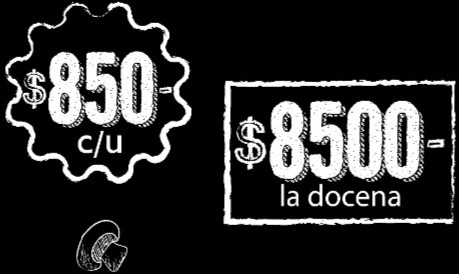
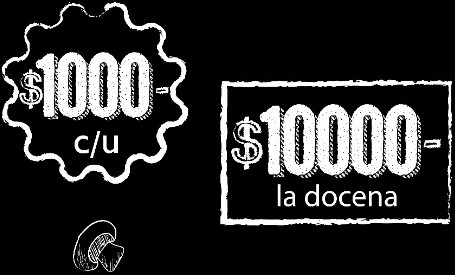
actualizacion diciembre 21

Changed region(s): [[0.4615, 0.292, 1.0, 0.8467], [0.0, 0.0, 0.4308, 0.6715], [0.1538, 0.7883, 0.2769, 0.9927]]

diff --git a/src/data/Pizzas-data.jsx b/src/data/Pizzas-data.jsx
@@ -1,33 +1,33 @@
 
 const productos = [
-    { id: 1, nombre: 'Mozzarella', descripcion: 'Salsa de tomate y mozzarella', precio: 4500 },
+    { id: 1, nombre: 'Mozzarella', descripcion: 'Salsa de tomate y mozzarella', precio: 5500 },
     { id: 2, nombre: 'Doble Mozza', descripcion: 'Salsa de tomate y doble mozzarella',precio: 
-    6200 },
-    { id: 3, nombre: 'Mozza c/Jamón', descripcion: 'Salsa de tomate, mozzarella y jamón',precio: 5900 },
-    { id: 4, nombre: 'Mozza c/anchoas', descripcion: 'Salsa de tomate, mozzarella y anchoas', precio: 6200 },
-    { id: 5, nombre: 'Jamón y Morrón', descripcion: 'Salsa de tomate, mozzarella , jamón y morrón',precio: 7300 },
-    { id: 6, nombre: 'Napolitana', descripcion: 'Salsa de tomate, mozzarella y tomate natural',precio: 5900 },
-    { id: 7, nombre: 'Napolitana y Jamón', descripcion: 'Salsa de tomate, mozzarella, tomate natural y jamón', precio: 7300 },
-    { id: 8, nombre: 'Fugaza c/Queso', descripcion: 'cebolla y mozzarella',precio: 5100 },
-    { id: 9, nombre: 'Fugaza rellena', descripcion: 'cebolla, mozzarella y jamón',precio: 8800 },
-    { id: 10, nombre: 'Salchicha', descripcion: 'Salsa de tomate, mozzarella y salchicha', precio: 6200 },
-    { id: 11, nombre: 'Palmitos', descripcion: 'Salsa de tomate, mozzarella y palmito',precio: 8500 },
-    { id: 12, nombre: 'Palmitos c/Jamón', descripcion: 'Salsa de tomate, mozzarella, palmito y jamón',precio: 9700 },
-    { id: 13, nombre: 'Champiñones', descripcion: 'Salsa de tomate, mozzarella y champiñon',precio: 8500 },
-    { id: 14, nombre: 'Hawaiana', descripcion: 'Salsa de tomate, mozzarella, jamón y ananá ',precio: 8500 },
-    { id: 15, nombre: 'Piamontesa', descripcion: 'Salsa de tomate, mozzarella, calabresa, champiñones y panceta',precio: 10500 },
-    { id: 16, nombre: 'Primavera', descripcion: 'Salsa de tomate, mozzarella, tomate, huevo y jamón',precio: 8500 },
-    { id: 17, nombre: 'Huevo', descripcion: 'Salsa de tomate, mozzarella y huevo',precio: 5900 },
-    { id: 18, nombre: 'Huevo c/Jamón', descripcion: 'Salsa de tomate, mozzarella, jamón y huevo',precio: 7300 },
-    { id: 19, nombre: 'Provolone', descripcion: 'Salsa de tomate, mozzarella y provolone',precio: 7300 },
-    { id: 20, nombre: 'Roquefort', descripcion: 'Salsa de tomate, mozzarella y roquefort',precio: 6500 },
-    { id: 21, nombre: 'Calabresa', descripcion: 'Salsa de tomate, mozzarella y calabresa',precio: 6500 },
-    { id: 22, nombre: 'Calabresa Especial', descripcion: 'Salsa de tomate, mozzarella, calabresa y morrón',precio: 7500 },
-    { id: 23, nombre: 'Rúcula y Parmesano', descripcion: 'Salsa de tomate, mozzarella, rúcula natural y parmesano',precio: 7500 },
-    { id: 24, nombre: 'Rúcula y Provolone', descripcion: 'Salsa de tomate, mozzarella, rúcula natural  y provolone',precio: 8500 },
-    { id: 25, nombre: 'Rúcula y Jamón Crudo', descripcion: 'Salsa de tomate, mozzarella, rúcula natural  y jamón crudo',precio: 9500 },
-    { id: 26, nombre: 'Especial BLOCK', descripcion: 'Salsa de tomate, mozzarella, panceta, huevos fritos y papas fritas',precio: 10500 },
-    { id: 27, nombre: 'Faina (porción)', descripcion: '',precio: 650 }
+    7500 },
+    { id: 3, nombre: 'Mozza c/Jamón', descripcion: 'Salsa de tomate, mozzarella y jamón',precio: 7200 },
+    { id: 4, nombre: 'Mozza c/anchoas', descripcion: 'Salsa de tomate, mozzarella y anchoas', precio: 7500 },
+    { id: 5, nombre: 'Jamón y Morrón', descripcion: 'Salsa de tomate, mozzarella , jamón y morrón',precio: 8900 },
+    { id: 6, nombre: 'Napolitana', descripcion: 'Salsa de tomate, mozzarella y tomate natural',precio: 7200 },
+    { id: 7, nombre: 'Napolitana y Jamón', descripcion: 'Salsa de tomate, mozzarella, tomate natural y jamón', precio: 8900 },
+    { id: 8, nombre: 'Fugaza c/Queso', descripcion: 'cebolla y mozzarella',precio: 6400 },
+    { id: 9, nombre: 'Fugaza rellena', descripcion: 'cebolla, mozzarella y jamón',precio: 10500 },
+    { id: 10, nombre: 'Salchicha', descripcion: 'Salsa de tomate, mozzarella y salchicha', precio: 7500 },
+    { id: 11, nombre: 'Palmitos', descripcion: 'Salsa de tomate, mozzarella y palmito',precio: 10200 },
+    { id: 12, nombre: 'Palmitos c/Jamón', descripcion: 'Salsa de tomate, mozzarella, palmito y jamón',precio: 11600 },
+    { id: 13, nombre: 'Champiñones', descripcion: 'Salsa de tomate, mozzarella y champiñon',precio: 10200 },
+    { id: 14, nombre: 'Hawaiana', descripcion: 'Salsa de tomate, mozzarella, jamón y ananá ',precio: 10200 },
+    { id: 15, nombre: 'Piamontesa', descripcion: 'Salsa de tomate, mozzarella, calabresa, champiñones y panceta',precio: 12600 },
+    { id: 16, nombre: 'Primavera', descripcion: 'Salsa de tomate, mozzarella, tomate, huevo y jamón',precio: 10200 },
+    { id: 17, nombre: 'Huevo', descripcion: 'Salsa de tomate, mozzarella y huevo',precio: 7200 },
+    { id: 18, nombre: 'Huevo c/Jamón', descripcion: 'Salsa de tomate, mozzarella, jamón y huevo',precio: 8900 },
+    { id: 19, nombre: 'Provolone', descripcion: 'Salsa de tomate, mozzarella y provolone',precio: 8900 },
+    { id: 20, nombre: 'Roquefort', descripcion: 'Salsa de tomate, mozzarella y roquefort',precio: 7800 },
+    { id: 21, nombre: 'Calabresa', descripcion: 'Salsa de tomate, mozzarella y calabresa',precio: 7800 },
+    { id: 22, nombre: 'Calabresa Especial', descripcion: 'Salsa de tomate, mozzarella, calabresa y morrón',precio: 9000 },
+    { id: 23, nombre: 'Rúcula y Parmesano', descripcion: 'Salsa de tomate, mozzarella, rúcula natural y parmesano',precio: 9000 },
+    { id: 24, nombre: 'Rúcula y Provolone', descripcion: 'Salsa de tomate, mozzarella, rúcula natural  y provolone',precio: 10200 },
+    { id: 25, nombre: 'Rúcula y Jamón Crudo', descripcion: 'Salsa de tomate, mozzarella, rúcula natural  y jamón crudo',precio: 11400 },
+    { id: 26, nombre: 'Especial BLOCK', descripcion: 'Salsa de tomate, mozzarella, panceta, huevos fritos y papas fritas',precio: 12500 },
+    { id: 27, nombre: 'Faina (porción)', descripcion: '',precio: 800 }
 
   
 ]

diff --git a/src/data/Milanesas-data.jsx b/src/data/Milanesas-data.jsx
@@ -1,20 +1,20 @@
 
 const milanesasData = [
-    { id: 1, nombre: 'Milanesa', descripcion: 'Milanesas + papas fritas', precio: 7500 },
-    { id: 2, nombre: 'Napolitana', descripcion: 'Salsa de tomate, mozzarella y tomate natural + fritas',precio: 9500 },
-    { id: 3, nombre: 'Jamón y Morrón', descripcion: 'Salsa de tomate, mozzarella , jamón y morrón',precio: 10500 },
-    { id: 4, nombre: 'Jamón y Huevo', descripcion: 'Salsa de tomate, mozzarella, jamón y huevo duro + fritas', precio: 10500 },
-    { id: 5, nombre: 'Fugazza c/Queso', descripcion: 'Mozzarella y cebolla + fritas',precio: 9000 },
-    { id: 6, nombre: 'Primavera', descripcion: 'Salsa de tomate, mozzarella, tomate, huevo y jamón + fritas',precio: 12000 },
-    { id: 7, nombre: 'Provolone', descripcion: 'Salsa de tomate, mozzarella y provolone + fritas',precio: 10500 },
-    { id: 8, nombre: 'Roquefort', descripcion: 'Salsa de tomate, mozzarella y roquefort + fritas',precio: 10500 },
-    { id: 9, nombre: 'Hawaiana', descripcion: 'Salsa de tomate, mozzarella, jamón y ananá + fritas',precio: 12000 },
-    { id: 10, nombre: 'Calabresa', descripcion: 'Salsa de tomate, mozzarella y calabresa + fritas',precio: 10500 },
-    { id: 11, nombre: 'Rúcula y Jamón Crudo', descripcion: 'Salsa de tomate, mozzarella, rúcula natural  y jamón crudo + fritas',precio: 12000 },
-    { id: 12, nombre: 'Rúcula y Parmesano', descripcion: 'Salsa de tomate, mozzarella, rúcula natural y parmesano + fritas',precio: 11000 },
-    { id: 13, nombre: 'Mila BLOCK', descripcion: 'Salsa de tomate, mozzarella, panceta, huevos fritos y papas fritas + porción de fritas',precio: 14500 },
-    { id: 14, nombre: 'Porción de Fritas', descripcion: '(Para Compartir)',precio: 4500 },
-    { id: 15, nombre: 'Fritas', descripcion: '(Media Porción)',precio: 3000 }
+    { id: 1, nombre: 'Milanesa', descripcion: 'Milanesas + papas fritas', precio: 9000 },
+    { id: 2, nombre: 'Napolitana', descripcion: 'Salsa de tomate, mozzarella y tomate natural + fritas',precio: 11500 },
+    { id: 3, nombre: 'Jamón y Morrón', descripcion: 'Salsa de tomate, mozzarella , jamón y morrón',precio: 12600 },
+    { id: 4, nombre: 'Jamón y Huevo', descripcion: 'Salsa de tomate, mozzarella, jamón y huevo duro + fritas', precio: 12600 },
+    { id: 5, nombre: 'Fugazza c/Queso', descripcion: 'Mozzarella y cebolla + fritas',precio: 108000 },
+    { id: 6, nombre: 'Primavera', descripcion: 'Salsa de tomate, mozzarella, tomate, huevo y jamón + fritas',precio: 14400 },
+    { id: 7, nombre: 'Provolone', descripcion: 'Salsa de tomate, mozzarella y provolone + fritas',precio: 12600 },
+    { id: 8, nombre: 'Roquefort', descripcion: 'Salsa de tomate, mozzarella y roquefort + fritas',precio: 12600 },
+    { id: 9, nombre: 'Hawaiana', descripcion: 'Salsa de tomate, mozzarella, jamón y ananá + fritas',precio: 14400 },
+    { id: 10, nombre: 'Calabresa', descripcion: 'Salsa de tomate, mozzarella y calabresa + fritas',precio: 12600 },
+    { id: 11, nombre: 'Rúcula y Jamón Crudo', descripcion: 'Salsa de tomate, mozzarella, rúcula natural  y jamón crudo + fritas',precio: 14400 },
+    { id: 12, nombre: 'Rúcula y Parmesano', descripcion: 'Salsa de tomate, mozzarella, rúcula natural y parmesano + fritas',precio: 13200 },
+    { id: 13, nombre: 'Mila BLOCK', descripcion: 'Salsa de tomate, mozzarella, panceta, huevos fritos y papas fritas + porción de fritas',precio: 17400 },
+    { id: 14, nombre: 'Porción de Fritas', descripcion: '(Para Compartir)',precio: 5400 },
+    { id: 15, nombre: 'Fritas', descripcion: '(Media Porción)',precio: 3600 }
 
 ]
 

diff --git a/src/data/Sandwiches-data.jsx b/src/data/Sandwiches-data.jsx
@@ -1,7 +1,7 @@
 const sandwichesData = [
-    { id: 1, nombre: 'Sándwich de Milanesa simple', descripcion: '', precio: 3500 },
-    { id: 2, nombre: 'Sándwich de Milanesa', descripcion: '(2 ingredientes a elección) Lechuga - tomate - jamón y queso',precio: 4000 },
-    { id: 3, nombre: 'Sándwich de Milanesa', descripcion: 'Completo',precio: 4500 },
+    { id: 1, nombre: 'Sándwich de Milanesa simple', descripcion: '', precio: 4200 },
+    { id: 2, nombre: 'Sándwich de Milanesa', descripcion: '(2 ingredientes a elección) Lechuga - tomate - jamón y queso',precio: 4800 },
+    { id: 3, nombre: 'Sándwich de Milanesa', descripcion: 'Completo',precio: 5400 },
 ]
 
 export default sandwichesData

diff --git a/src/data/Papas-data.jsx b/src/data/Papas-data.jsx
@@ -1,7 +1,7 @@
 const papasData = [
-    { id: 1, nombre: 'Cheddar - Panceta y Verdeo', precio: 2000 },
-    { id: 2, nombre: 'Huevos Fritos (Dos)', precio: 1500 },
-    { id: 3, nombre: 'Provenzal', precio: 1200 },
+    { id: 1, nombre: 'Cheddar - Panceta y Verdeo', precio: 2500 },
+    { id: 2, nombre: 'Huevos Fritos (Dos)', precio: 1800 },
+    { id: 3, nombre: 'Provenzal', precio: 1500 },
 ]
 
 export default papasData
